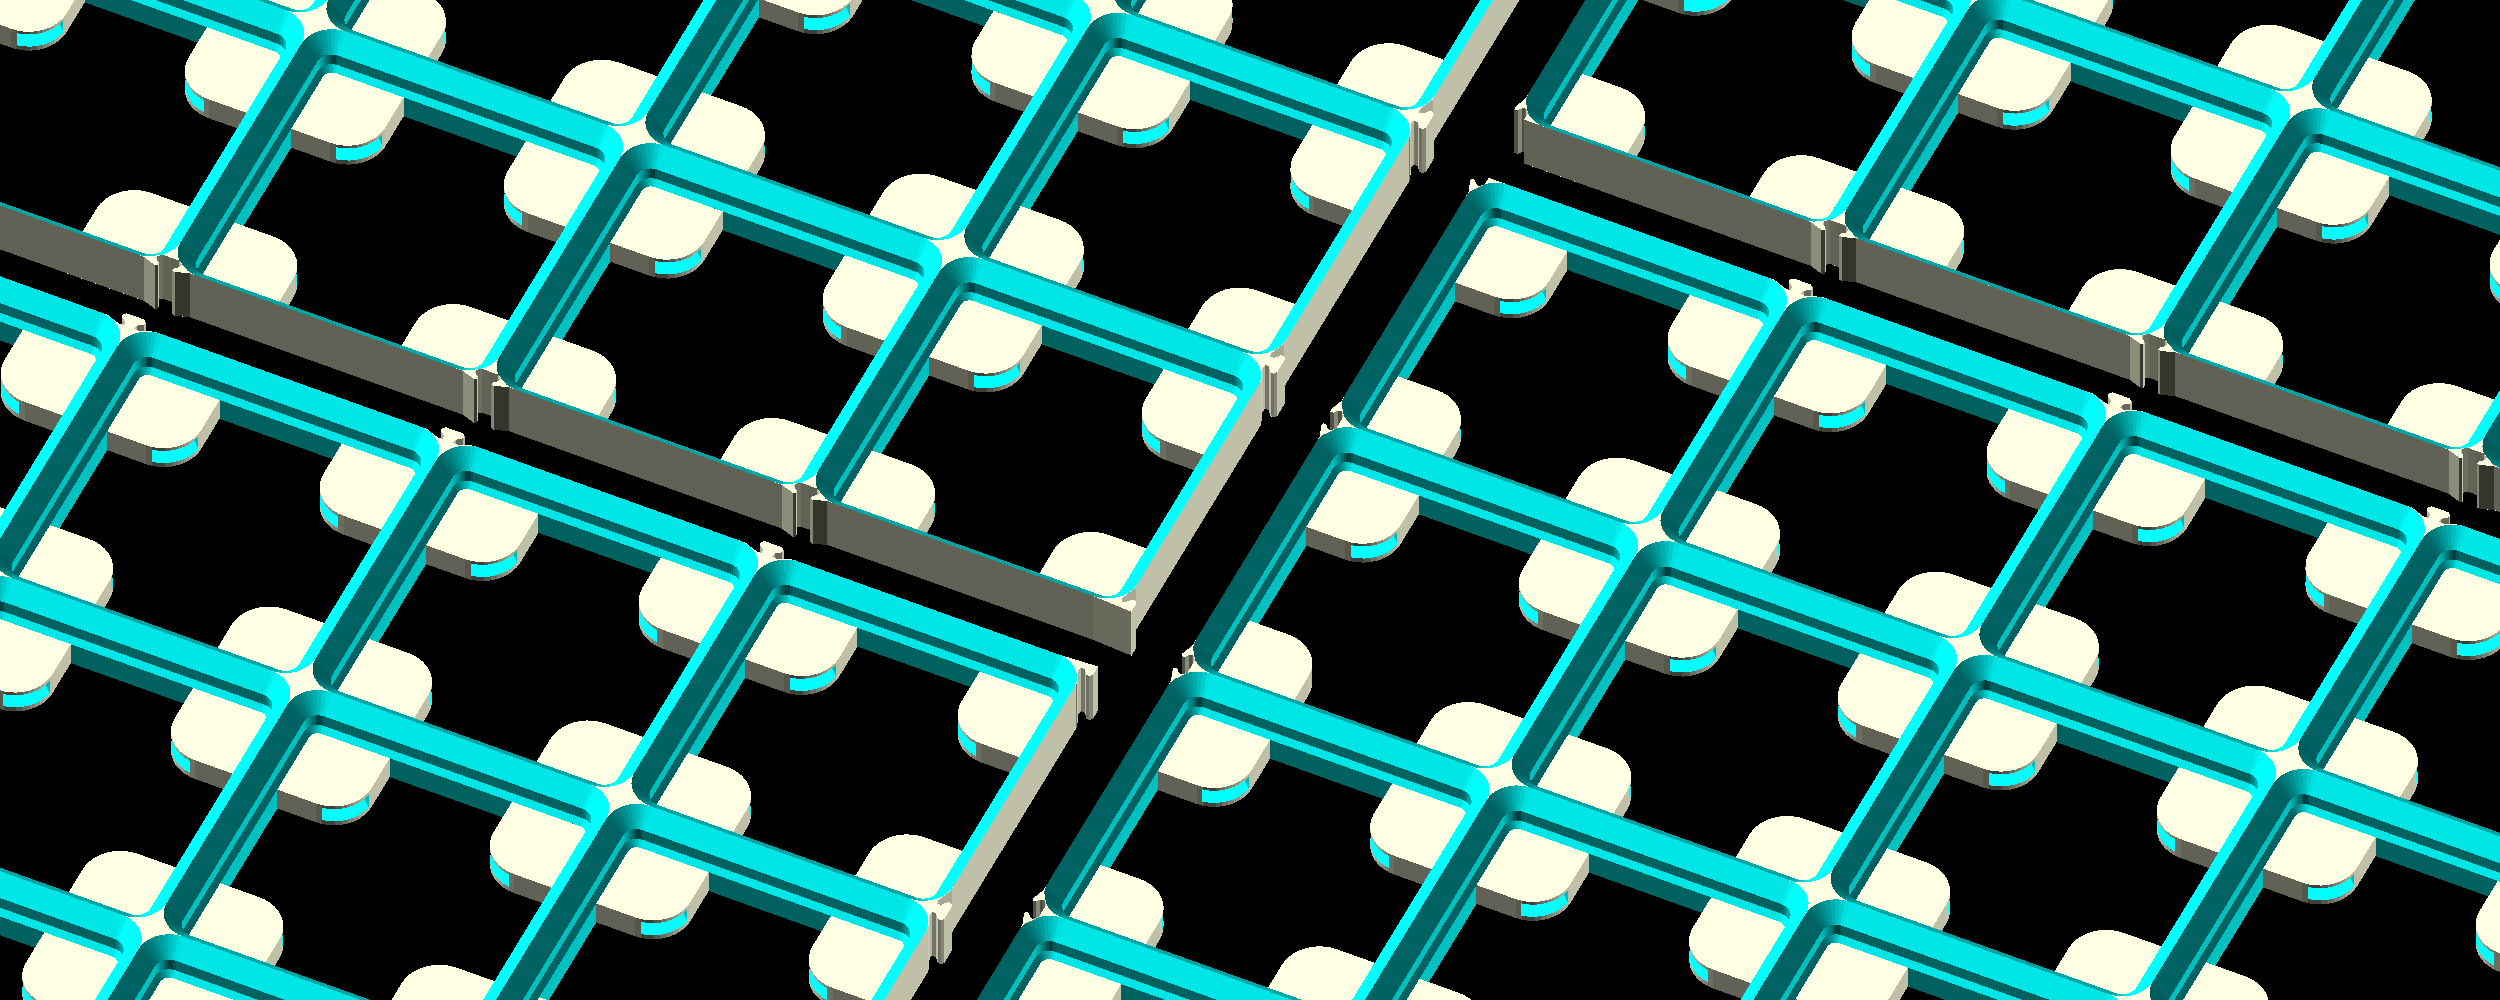
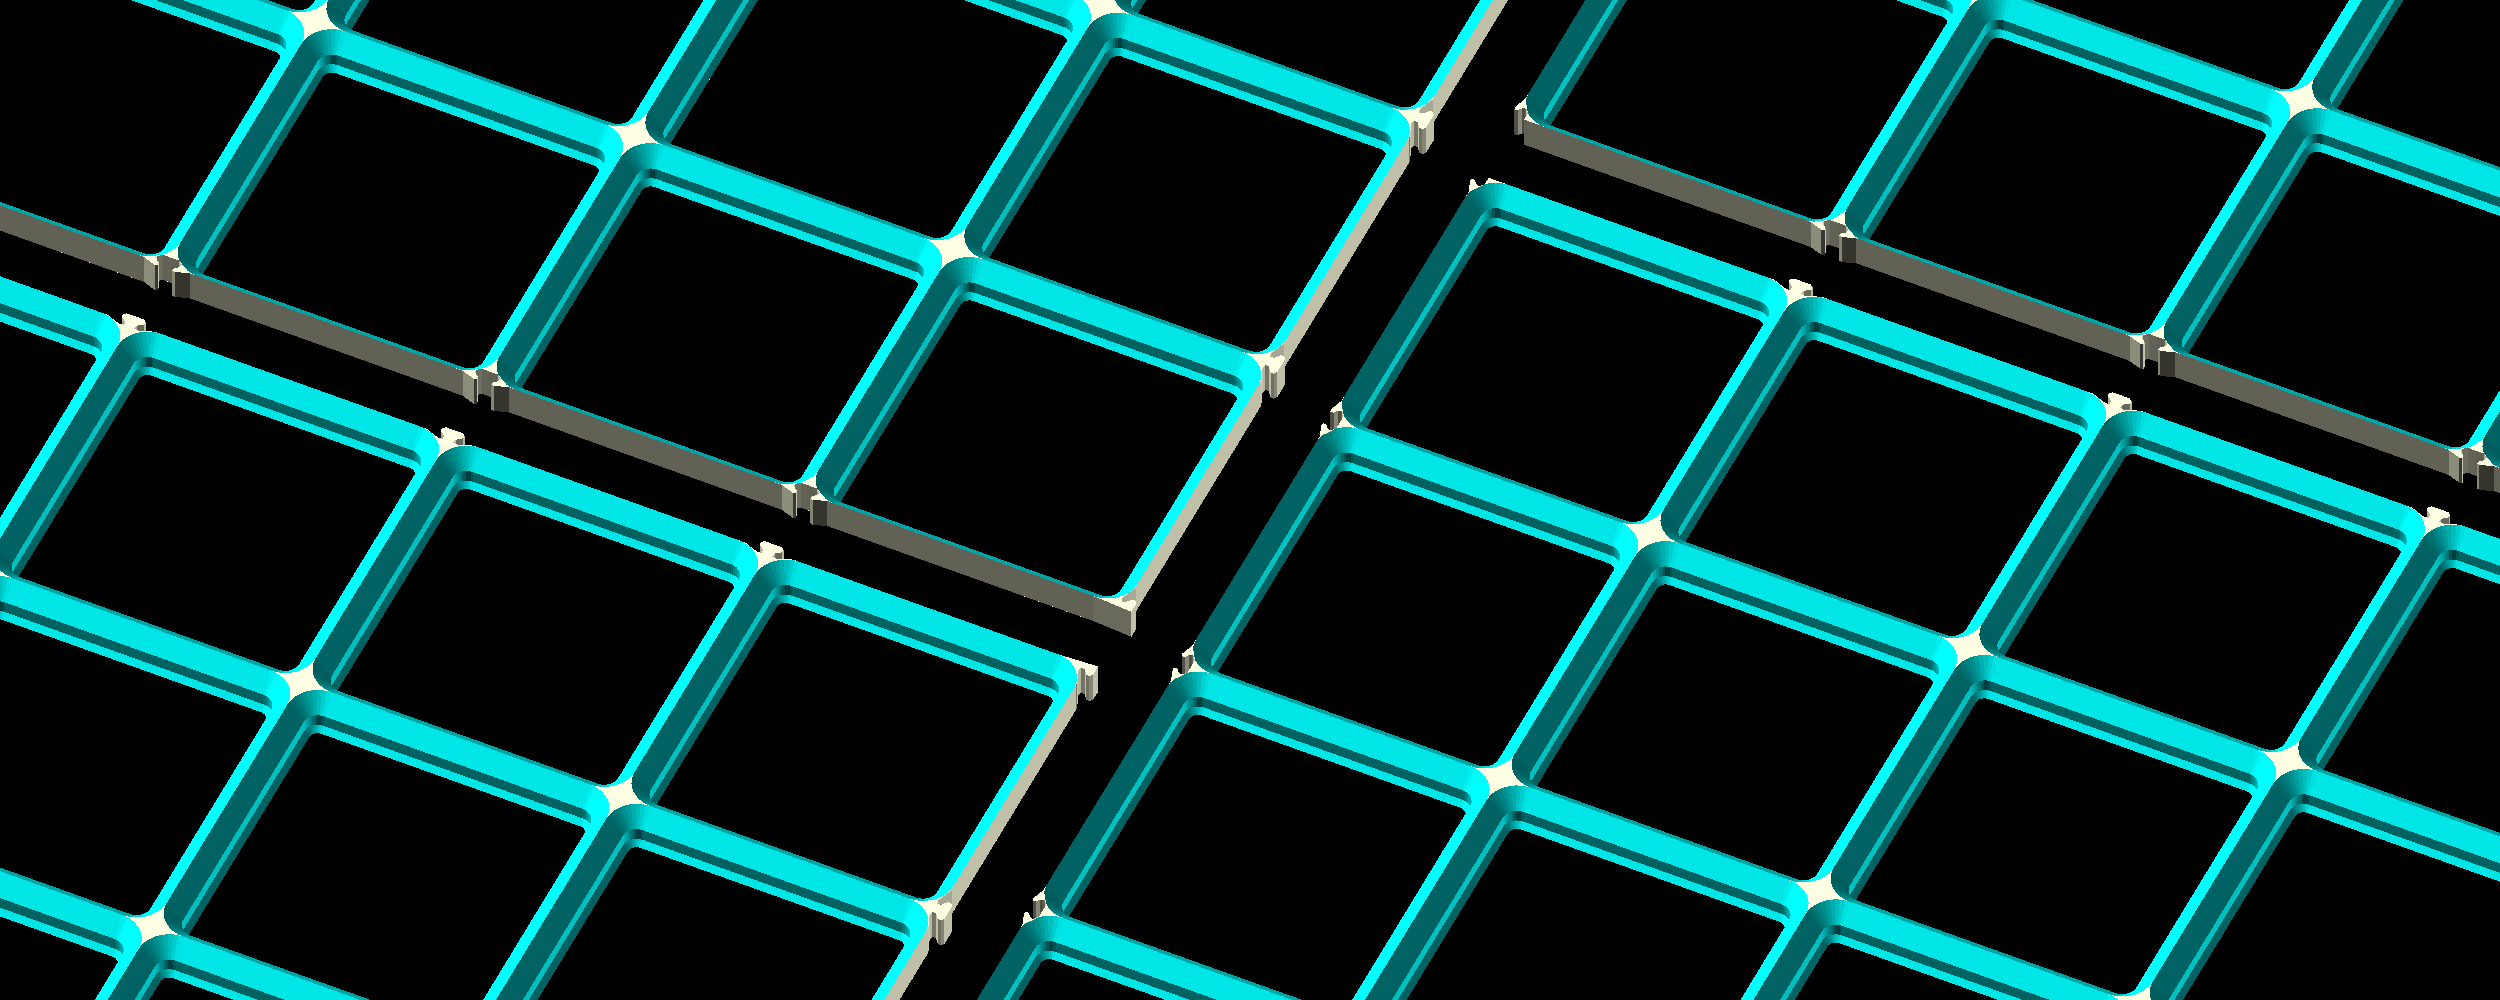
Turn off magnets by default (#28)
* Turn off magnets by default
Analytics show most users don't use them, so let's turn them off.

* fix toml

diff --git a/README.md b/README.md
@@ -114,7 +114,7 @@ This connector is a good alternative to the intersection puzzle if the plate has
 * To make the female connectors more sturdy and easier to print, an extra "bar" is added at the magnet level, on those edges where a female connector is placed (only if magnets are enabled). You can see it in the screenshot. With this bar, it may be viable to make the connector full-height and avoid the overhang.
 * Unlike the intersection mode, the edge puzzle connectors are highly customizable for your circumstances.
 
-<!-- openscad -o docs/images/edge-puzzle.png --camera=0,30,0,40,0,25,300 -D plate_size='[420, 420]' -D connector_intersection_puzzle=false -D connector_edge_puzzle=true -->
+<!-- openscad -o docs/images/edge-puzzle.png --camera=0,30,0,40,0,25,300 -D plate_size='[420, 420]' -D connector_intersection_puzzle=false -D connector_edge_puzzle=true -D magnets=true -->
 <img src="docs/images/edge-puzzle.png" alt="Edge puzzle" />
 
 #### Connector Height
